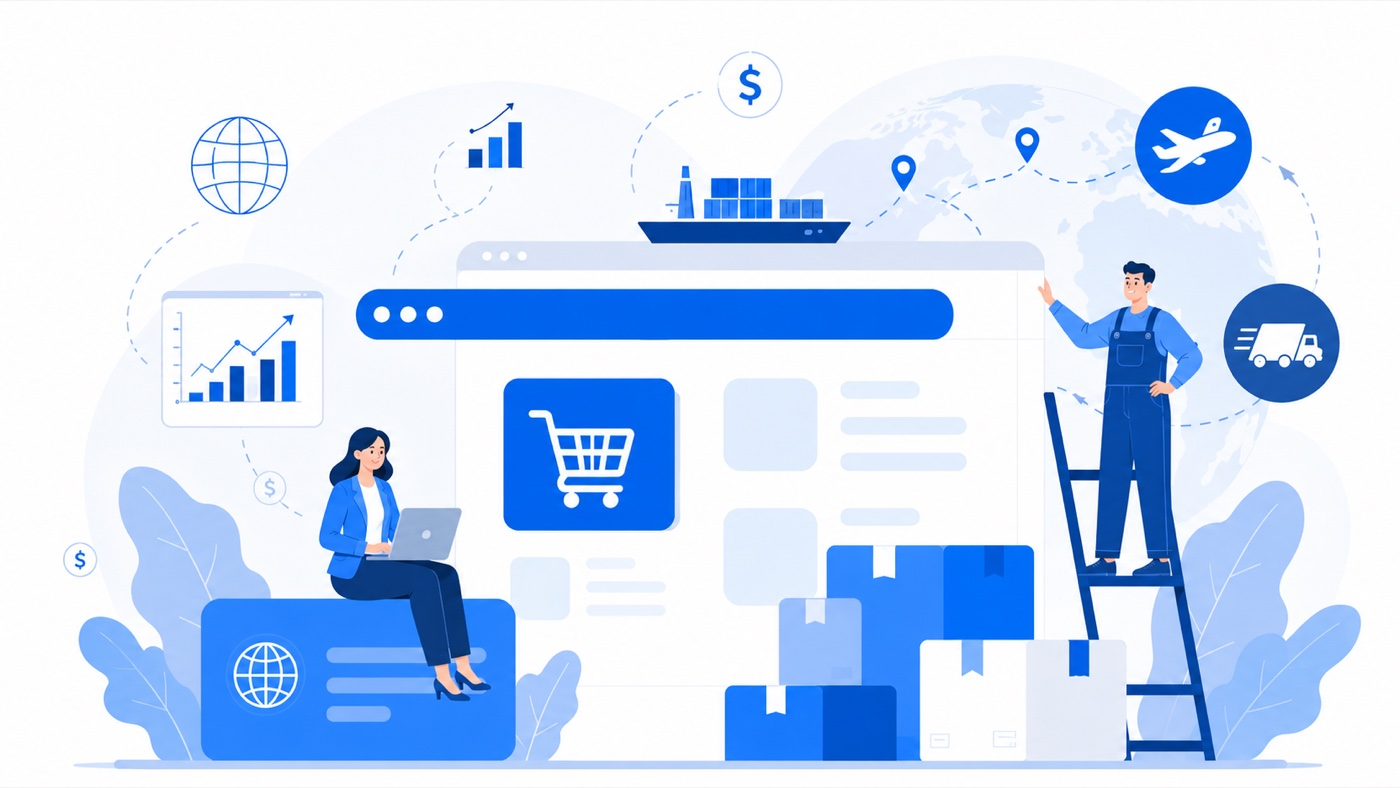
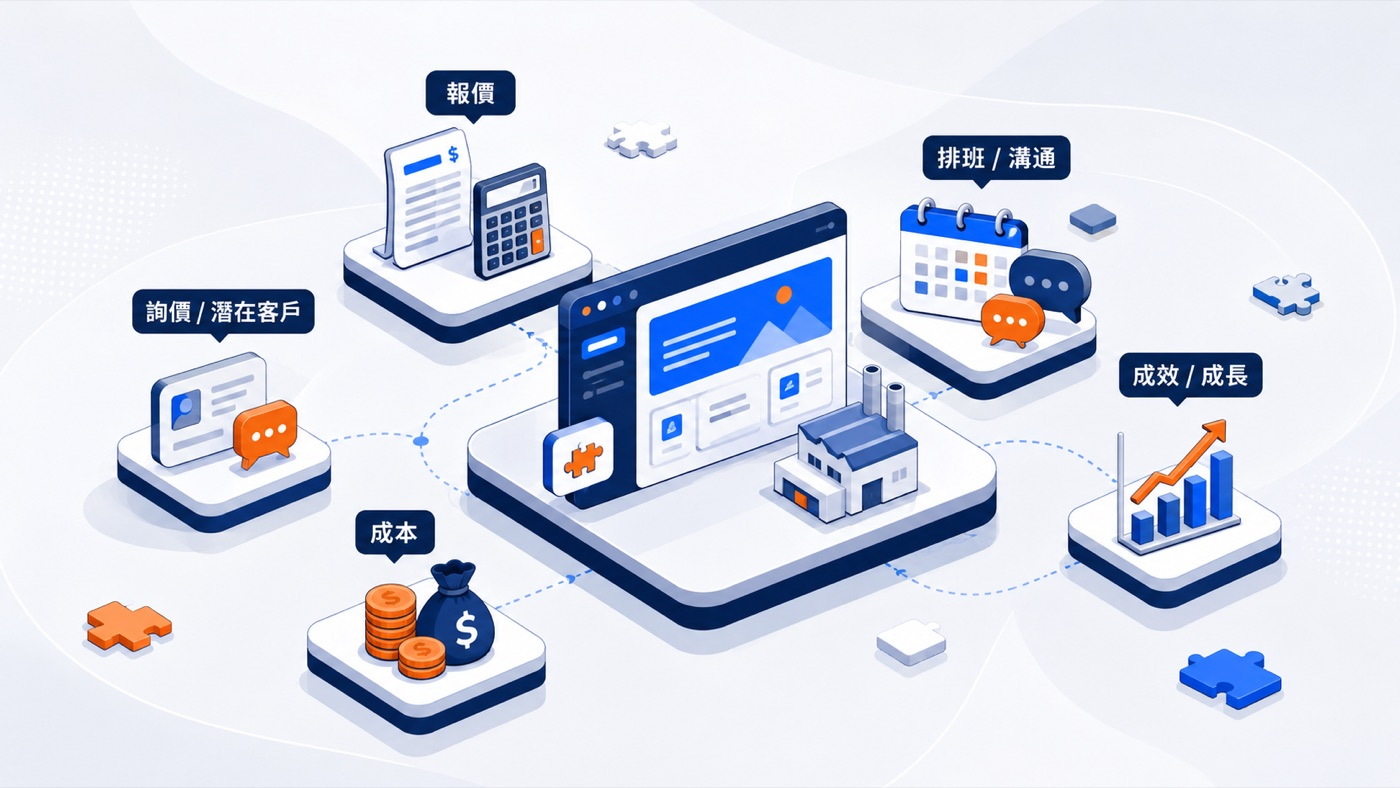
Hero 主視覺換新圖

diff --git a/index.html b/index.html
@@ -517,7 +517,7 @@
         </div>
       </div>
       <div class="hero-visual">
-        <img src="images/hero-visual.jpg" alt="B2B 工廠官網承接搜尋、展覽與海外業務開發流量的示意圖" width="1400" height="788" fetchpriority="high">
+        <img src="images/hero-visual.jpg" alt="工廠官網作為中樞，串起詢價、報價、排班溝通、成本與成效成長的示意圖" width="1400" height="788" fetchpriority="high">
       </div>
     </div>
   </section>
